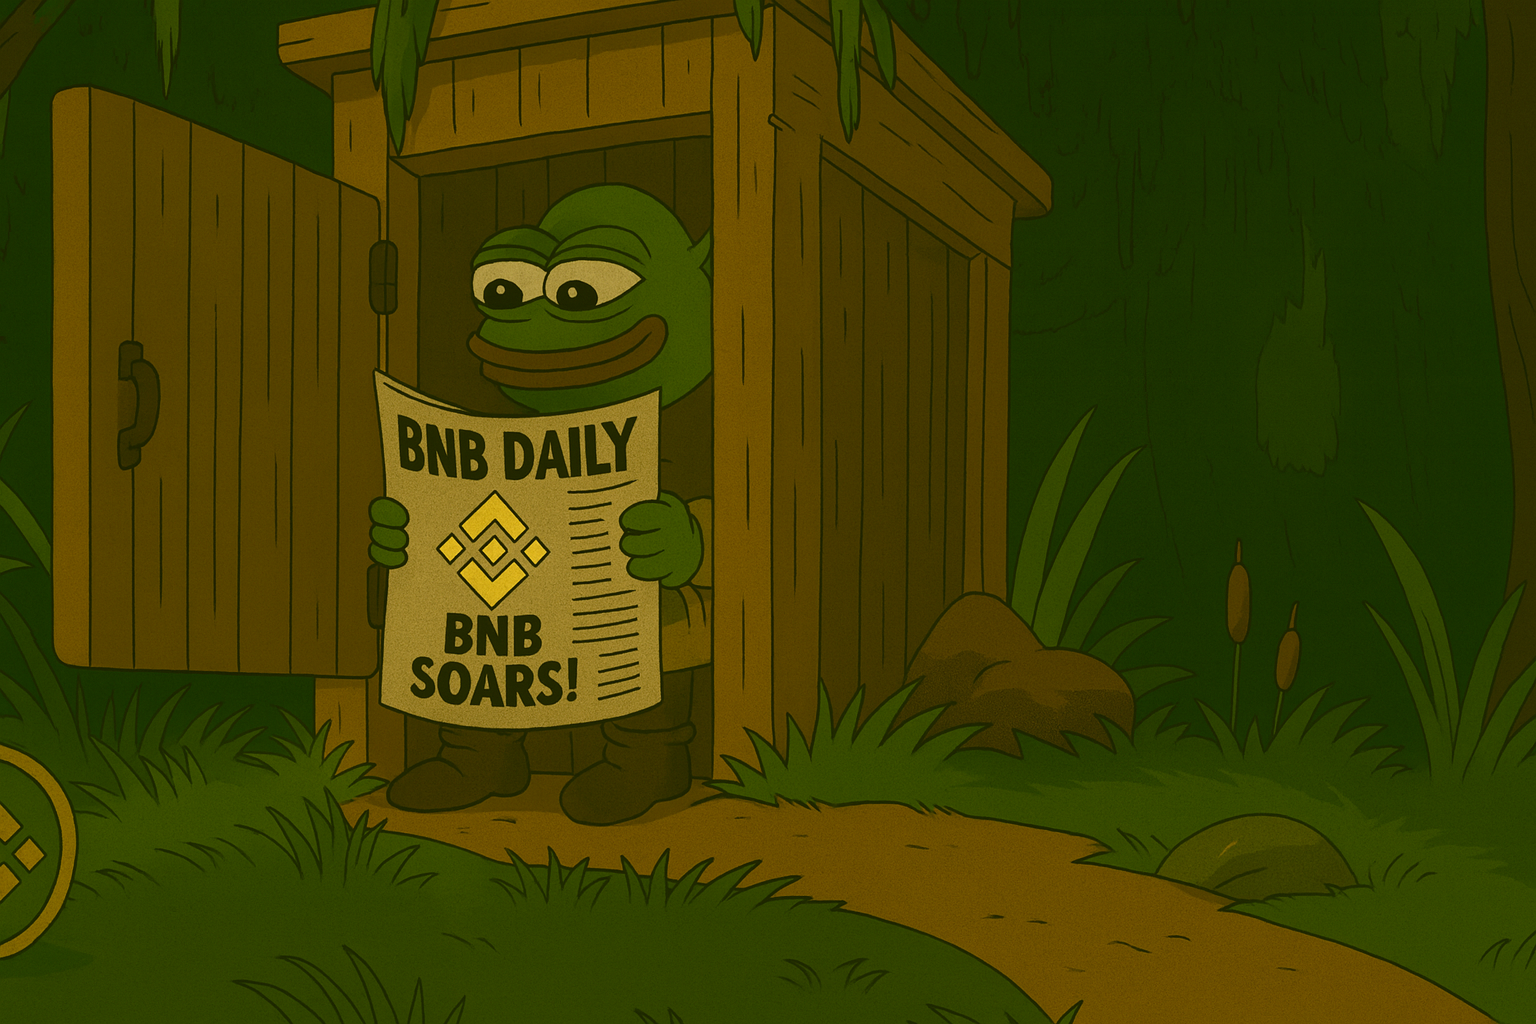
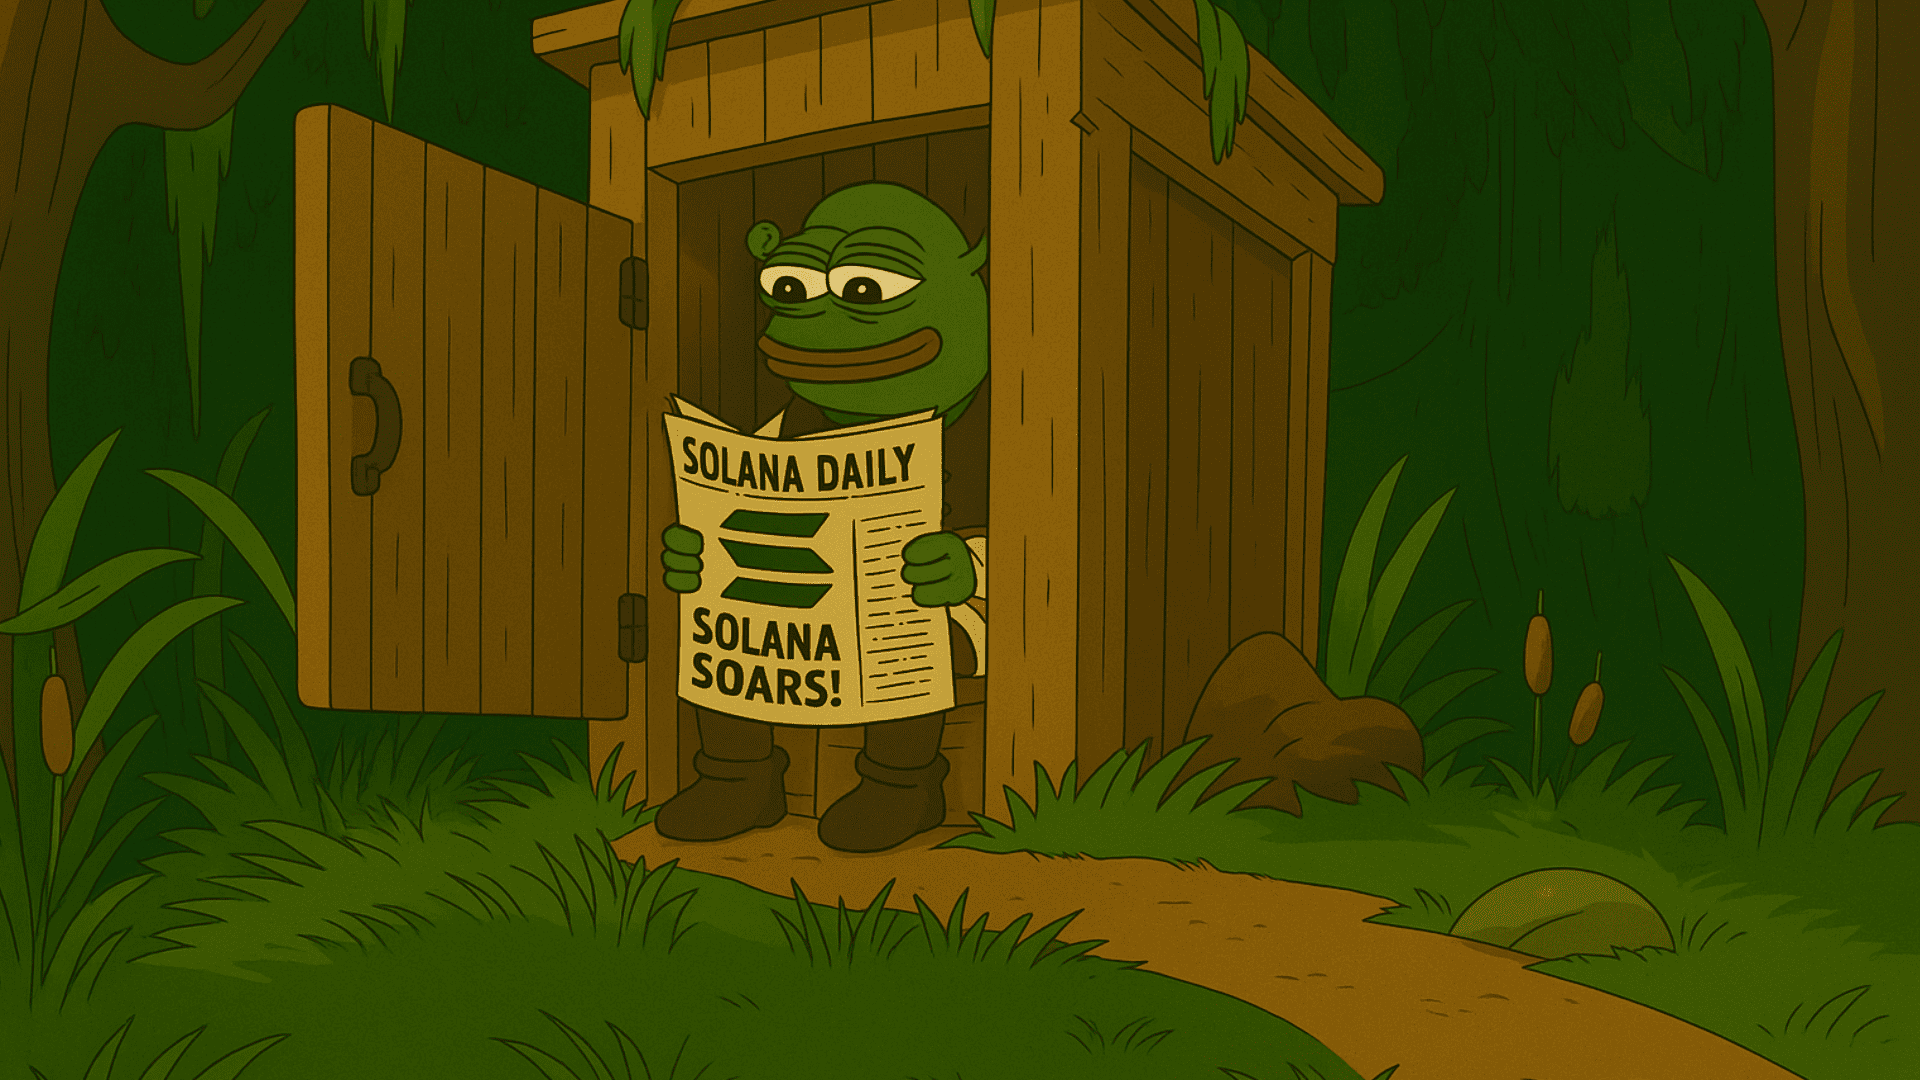
Add files via upload

diff --git a/index.html b/index.html
@@ -6,21 +6,21 @@
 <meta content="width=device-width, initial-scale=1" name="viewport"/>
 <title>SHREPE</title>
 <meta content="SHREPE — the swampiest memecoin on Solana. Join the swamp, throw onions, and ride the green candles." name="description"/>
-<link as="audio" href="/assets/music.mp3" rel="preload"/>
-<link href="/style.css" rel="stylesheet">
+<link as="audio" href="assets/music.mp3" rel="preload"/>
+<link href="style.css" rel="stylesheet">
 </link><link href="https://fonts.googleapis.com" rel="preconnect"/><link crossorigin="True" href="https://fonts.gstatic.com" rel="preconnect"/><link href="https://fonts.googleapis.com/css2?family=Chewy&amp;display=swap" rel="stylesheet"/>
 <link rel="preconnect" href="https://fonts.googleapis.com">
 <link rel="preconnect" href="https://fonts.gstatic.com" crossorigin>
 <link href="https://fonts.googleapis.com/css2?family=Lilita+One&display=swap" rel="stylesheet">
 </head>
-<link rel="icon" href="/assets/favicon.ico" type="image/x-icon">
+<link rel="icon" href="assets/favicon.ico" type="image/x-icon">
 
 
 
 <body>
 <!-- Intro / Gate (autoplay is triggered only after click) -->
 <div id="intro">
-<img alt="intro background" class="intro-bg" src="/assets/intro-bg.png"/>
+<img alt="intro background" class="intro-bg" src="assets/intro-bg.PNG"/>
 <div class="intro-content">
 <h1 class="logo">SHREPE</h1>
 <button class="btn btn-hero" id="enterBtn">click on me</button>
@@ -32,16 +32,16 @@
 <span class="brand-title">SHREPE</span>
 </div>
 <nav class="nav-actions">
-<a aria-label="Telegram" class="icon-link" href="https://t.me/SHREPE_MEME" rel="noopener" target="_blank"><img class="icon-img" src="/assets/tg-icon.png" alt="Telegram icon"/></a>
-<a aria-label="Twitter" class="icon-link" href="https://x.com/SHREPE_MEME" rel="noopener" target="_blank"><img class="icon-img" src="/assets/x-icon.png" alt="Twitter icon"/></a>
-<a aria-label="Dexscreener" class="icon-link" href="#coming_soon" rel="noopener" target="_blank"><img class="icon-img" src="/assets/dex-icon.png" alt="Dexscreener icon"/></a>
+<a aria-label="Telegram" class="icon-link" href="https://t.me/SHREPE_MEME" rel="noopener" target="_blank"><img class="icon-img" src="assets/tg-icon.PNG" alt="Telegram icon"/></a>
+<a aria-label="Twitter" class="icon-link" href="https://x.com/SHREPE_MEME" rel="noopener" target="_blank"><img class="icon-img" src="assets/x-icon.png" alt="Twitter icon"/></a>
+<a aria-label="Dexscreener" class="icon-link" href="#coming_soon" rel="noopener" target="_blank"><img class="icon-img" src="assets/dex-icon.PNG" alt="Dexscreener icon"/></a>
 <button aria-label="Mute/Unmute Music" class="icon-link" id="muteToggle" title="Mute/Unmute Music">🔊</button>
 </nav>
 </header>
 <!-- Main Sections -->
 <main class="hidden" id="app">
 <!-- Section 1: Hero / Buy -->
-<section class="slide bg-cover" id="s1" style="--bg:url('/assets/main-bg.png')">
+<section class="slide bg-cover" id="s1" style="--bg:url('assets/main-bg.PNG')">
 <div class="hero">
 <div class="cta">
 <h1 class="ogre-title">$SHREPE</h1>
@@ -52,14 +52,14 @@
 <a class="btn btn-buy" href="coming_soon" id="buyBtnTop">BUY</a>
 </div>
 </div>
-<img alt="SHREPE holding coin" class="shrek shrek-center" src="/assets/shrek-flip.gif"/>
+<img alt="SHREPE holding coin" class="shrek shrek-center" src="assets/shrek-flip.gif"/>
 </section>
 <!-- Section 2: About + fun interaction -->
-<section class="slide bg-cover" id="s2" style="--bg:url('/assets/second-bg2.png')">
+<section class="slide bg-cover" id="s2" style="--bg:url('assets/second-bg2.PNG')">
 <div class="about card">
 <h2>About the Meme</h2>
 <p>
-          Deep in the BNB swamp, <strong>$SHREPE</strong> guards his golden onions (and your bags).
+          Deep in the Solana swamp, <strong>$SHREPE</strong> guards his golden onions (and your bags).
           He’s part ogre, part frog, 100% degen. Don’t step in the mud — unless it’s green.
         </p>
 <div class="fun">
@@ -67,33 +67,33 @@
 <div class="speech hidden" id="speech"></div>
 </div>
 </div>
-<img alt="Shrek standing" class="shrek shrek-left wiggle-on-hover" id="shrek1" src="/assets/sherk1.png"/>
+<img alt="Shrek standing" class="shrek shrek-left wiggle-on-hover" id="shrek1" src="assets/sherk1.PNG"/>
 </section>
 <!-- Section 3: How to Buy -->
-<section class="slide bg-cover" id="s3" style="--bg:url('/assets/third-bg.png')">
-<img alt="Shrek by the cliff" class="shrek shrek-right" src="/assets/shrek3.png"/>
+<section class="slide bg-cover" id="s3" style="--bg:url('assets/third-bg2.png')">
+<img alt="Shrek by the cliff" class="shrek shrek-right" src="assets/shrek3.PNG"/>
 <div class="howto">
 <h2>How to Buy</h2>
 <div class="steps">
 <div class="step board fx-hover">
 <div class="num">1</div>
 <h3>Create a Wallet</h3>
-<p>Install Trust Wallet, create a wallet, write down your seed phrase (never share).</p>
+<p>Install Phantom and create a new wallet. Save your phrase seed safely.</p>
 </div>
 <div class="step board fx-hover">
 <div class="num">2</div>
-<h3>Get Some BNB</h3>
-<p>Buy BNB (BEP-20) on an exchange, withdraw to your Trust Wallet BSC address.</p>
+<h3>Get Some SOL</h3>
+<p>Buy SOL on an exchange and send it to your wallet address on Solana.</p>
 </div>
 <a class="step board fx-hover" href="https://dexscreener.com/coming_soon" rel="noopener" target="_blank">
 <div class="num">3</div>
-<h3>Open PancakeSwap</h3>
-<p>Open PancakeSwap, Connect Wallet, select BNB Chain.</p>
+<h3>Open Dexscreener</h3>
+<p>Find the $SHREPE pair on Dexscreener (link in header) or your fav DEX.</p>
 </a>
 <div class="step board fx-hover" id="buy">
 <div class="num">4</div>
 <h3>Swap for $SHREPE</h3>
-<p>Paste the token contract address, choose amount, set slippage if needed, Confirm Swap.</p>
+<p>Paste the contract address, set slippage if needed, and confirm the swap.</p>
 </div>
 </div>
 </div>
@@ -112,7 +112,7 @@
 </div>
 </footer>
 </main>
-<audio id="bgm" loop="" preload="auto" src="/assets/music.mp3"></audio>
+<audio id="bgm" loop="" preload="auto" src="assets/music.mp3"></audio>
 <script>
     window.SITE_CONFIG = {
       CONTRACT: "coming_soon" // TODO: replace with real CA
